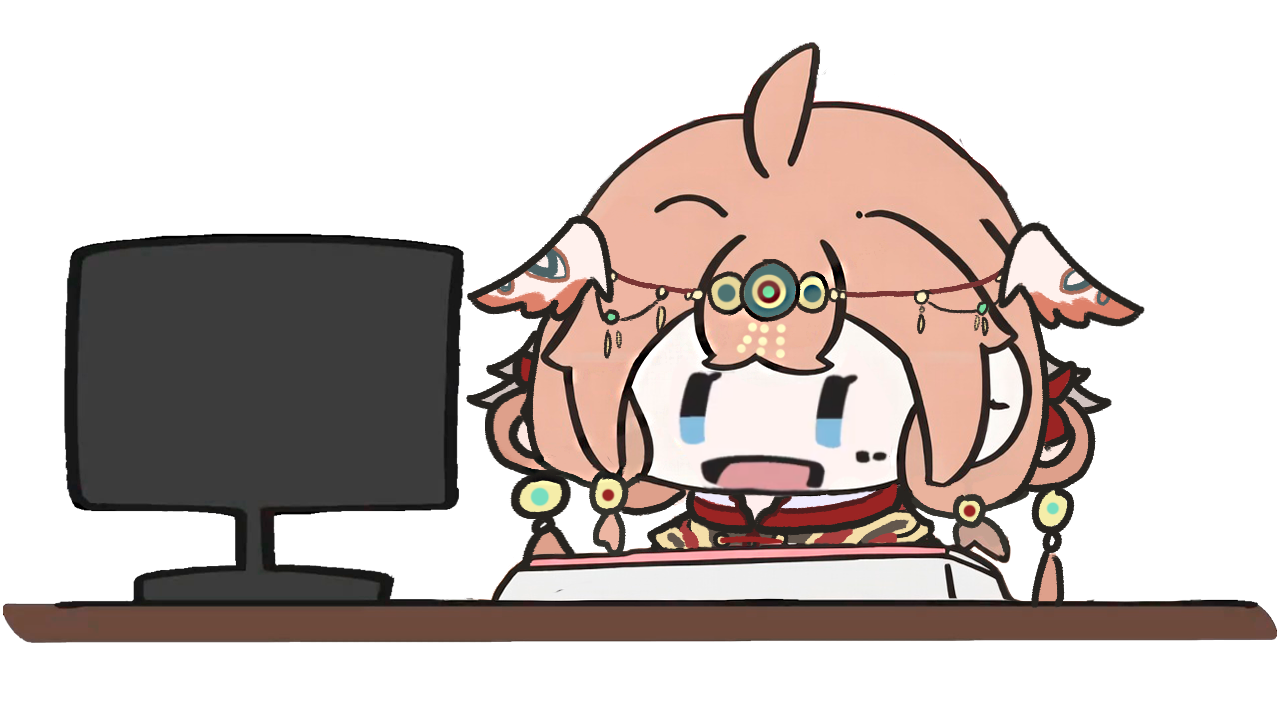
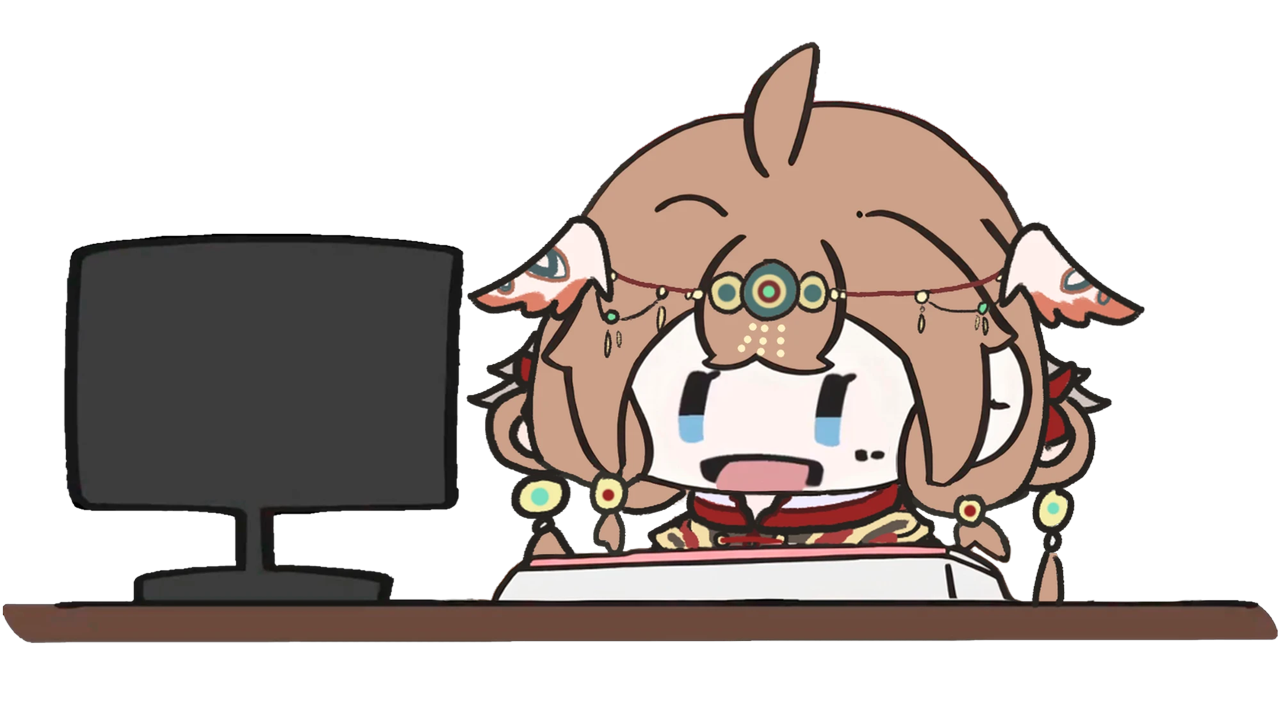
feat: 嘉然帝江（嘉然山海经）换成新版立绘，按显示器和桌面对齐旧图后缩到 1280×720，预览图和头像跟着重出；皮肤 ID 不变

diff --git a/ASSETS.md b/ASSETS.md
@@ -43,6 +43,8 @@ assets-packs/
 
 嘉然原皮和嘉然2025生日于 2026-11-09 换成新版立绘，脸、线条和发色都重画了。新图为 1280×720，人物和桌面比旧图小，放大 1.2 倍、平移 (-96, -107) 后与旧图的显示器和桌面对齐，键盘、鼠标图层不变；顶部分别加高 25 行和 17 行，放下蝴蝶结和帽子。嘉然山海经、嘉然睡衣派对同日换成新版，新图与旧图位置相同，直接使用。
 
+2026-11-15 嘉然山海经（嘉然帝江）再次换成新版立绘（2000×1500 透明底），按显示器和桌面对齐旧图后缩到 1280×720。
+
 ## 构建脚本
 
 运行 `python scripts/build_assets.py [--src <原始素材目录>] [--force]`（需安装 Pillow 与 ffmpeg），可从原始素材生成压缩产物与 `manifest.json`。
